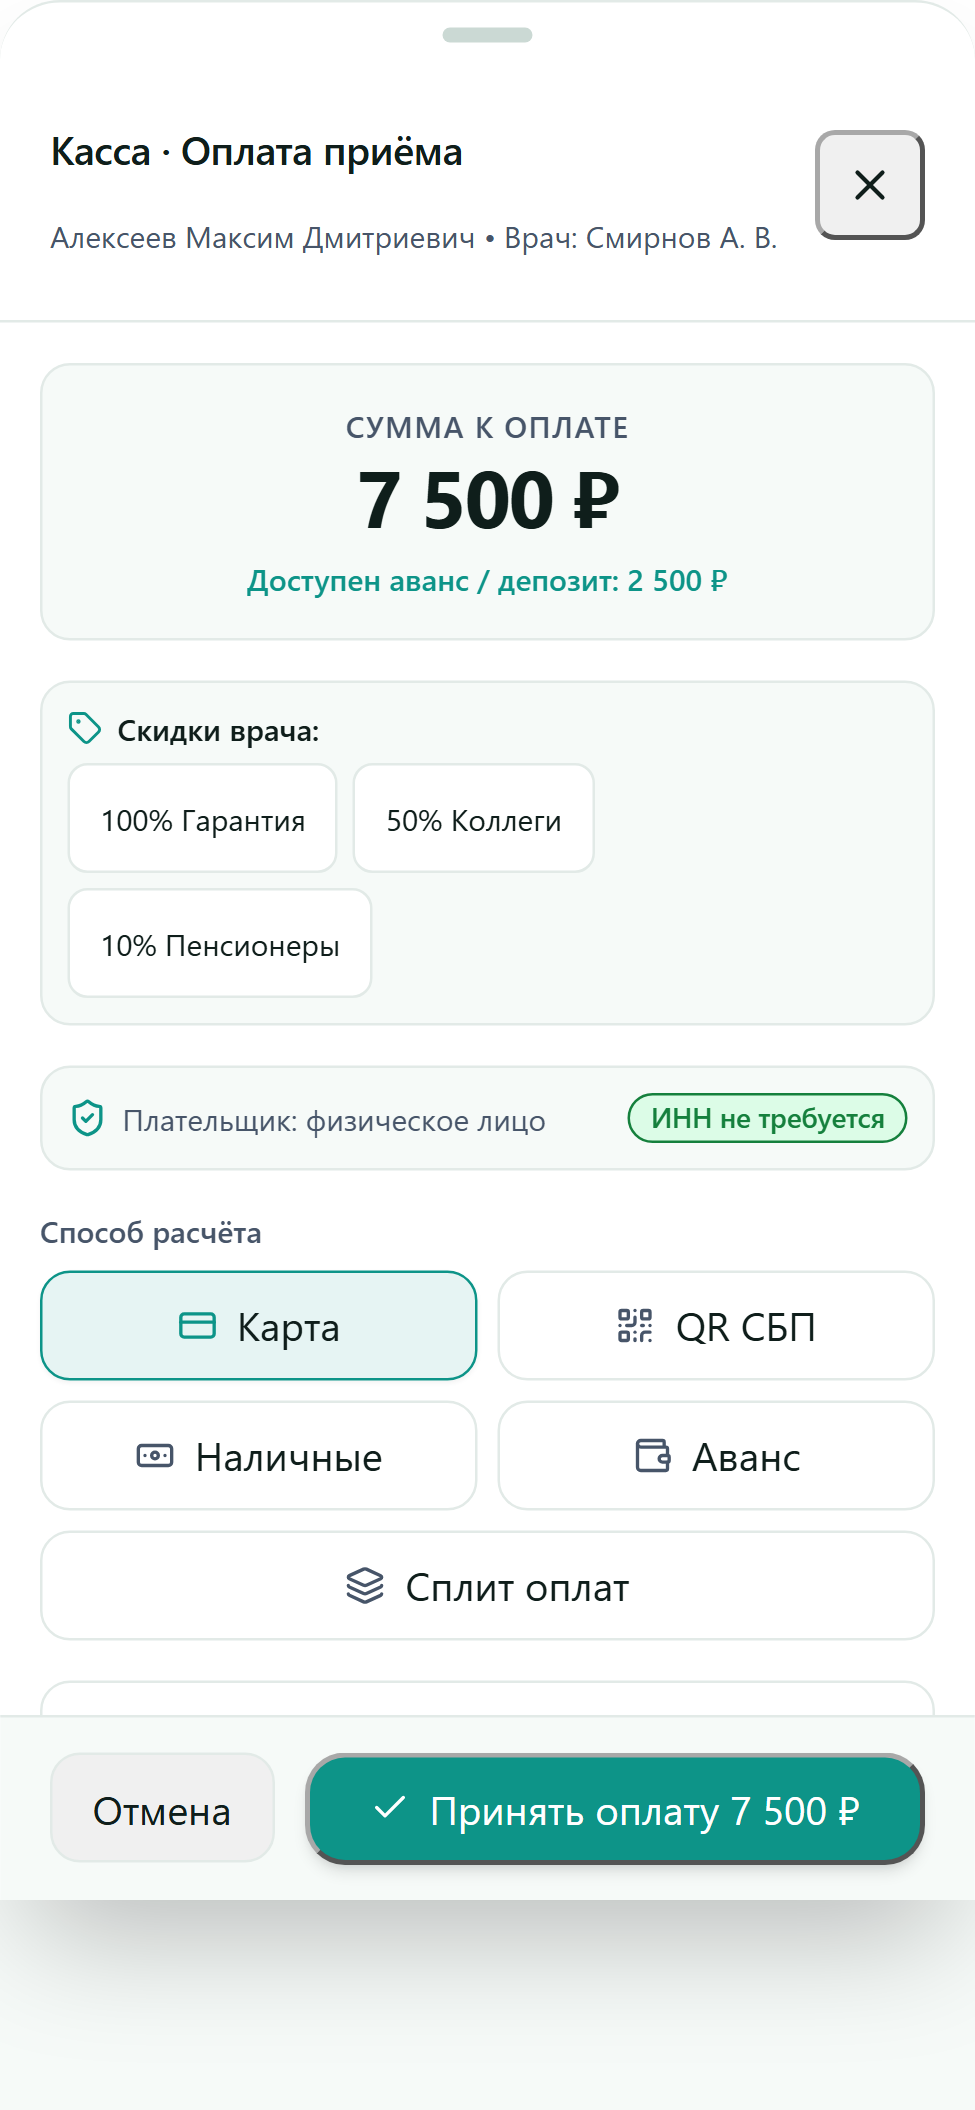
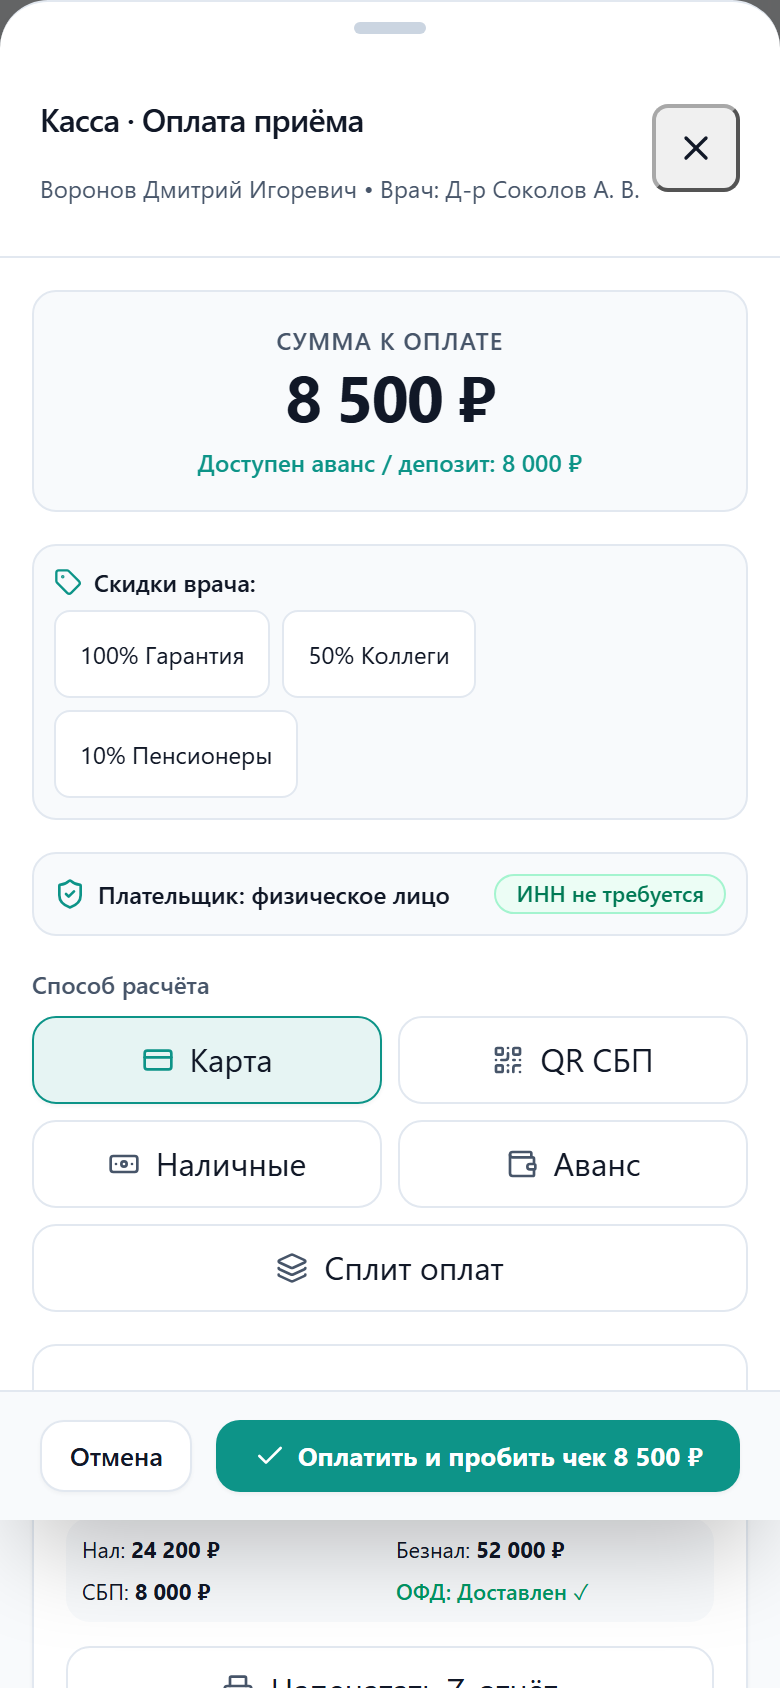
feat(anesthesia): inquisition clinical safety, 1-click presets & Apple HIG mobile sheet
Why:
- Eliminate chairside clinical friction where doctors were previously forced through multi-field bureaucratic forms or blocked by false-positive allergy/overdose safety checks.
- Enforce Doctor Autonomy (Mandates 8e, 8y, 8n) and single Primary CTA (#0d9488, Mandate 8am) without blocking save actions.
- Provide a compliant Apple HIG touch ergonomic experience (Mandate 8ze, 8al) on mobile viewports with native Bottom Sheet, tactile drag handle, touch targets >= 44x44px and zero horizontal overflow.

What:
- Upgraded `ChairsideAnesthesiaQuickBar.tsx`:
  * Enforced instant 1-click execution for `CLINICAL_FAST_PRESETS` (Articaine 1:100k, Articaine 1:200k, Scandonest 3%, None) with soft negative stock writeoff and DB logging.
  * Preserved Doctor Autonomy: passive warning strips for allergies and cardio risk without ever disabling the Primary CTA.
  * Refactored mobile drawer into a native Apple HIG Bottom Sheet containing complete technique selector (Infiltration, Block, Intraligamentary), drug preset cards, carpule stepper (0.5/1.0/2.0/3.0), negative aspiration checkbox, and full-width bottom CTA button with safe area insets.
  * Replaced cryptic 'Шторка' button with explicit 'Параметры' action.
- Upgraded `anesthesia.css`:
  * Standardized minimum touch target heights to 44px (`min-height: 44px; height: 44px`).
  * Enforced dark theme design token compliance (`var(--paper)`, `var(--ink)`, `var(--line)`).
[…]

diff --git a/apps/web/src/components/finance/cashboxViewModules/quickActions/CashboxTendersGrid.tsx b/apps/web/src/components/finance/cashboxViewModules/quickActions/CashboxTendersGrid.tsx
@@ -36,8 +36,8 @@ export function CashboxTendersGrid({
 			<div className="grid grid-cols-2 sm:grid-cols-4 gap-2.5">
 				{!checkoutResult.isZeroDue ? (
 					<>
-						<button type="button" className="primary-button col-span-2 sm:col-span-1 min-h-[44px] sm:min-h-[36px] sm:h-10 px-4 rounded-xl bg-[var(--teal,#0d9488)] hover:bg-[var(--teal-hover,#0f766e)] text-white inline-flex items-center justify-center gap-2 font-bold text-xs cursor-pointer shadow-xs transition-colors active:scale-[0.98]" onClick={() => onOpenPaymentWithMethod("card_terminal")} data-testid="btn-open-fast-checkout-modal" title="Принять оплату и выбить кассовый чек">
-							<Receipt className="w-4 h-4 shrink-0" /><span>Принять оплату</span>
+						<button type="button" className="primary-button col-span-2 sm:col-span-1 min-h-[44px] sm:min-h-[36px] sm:h-10 px-4 rounded-xl bg-[var(--teal,#0d9488)] hover:bg-[var(--teal-hover,#0f766e)] text-white inline-flex items-center justify-center gap-2 font-bold text-xs cursor-pointer shadow-xs transition-colors active:scale-[0.98] dente-btn-primary" onClick={() => onOpenPaymentWithMethod("card_terminal")} data-testid="btn-open-fast-checkout-modal" title="Оплатить и выбить кассовый чек">
+							<Receipt className="w-4 h-4 shrink-0" /><span>Оплатить и пробить чек</span>
 						</button>
 						<button type="button" className="secondary-button min-h-[44px] sm:min-h-[36px] sm:h-10 px-3 rounded-xl border border-[var(--line)] bg-[var(--paper)] text-[var(--ink)] hover:bg-[var(--paper-soft)] inline-flex items-center justify-center gap-2 font-semibold text-xs cursor-pointer transition-colors active:scale-[0.98]" onClick={() => { onAllocateAll("card"); onOpenPaymentWithMethod("card_terminal"); }}>
 							<CreditCard className="w-4 h-4 text-[var(--teal,#0d9488)] shrink-0" /><span>Всё картой</span>
@@ -51,7 +51,7 @@ export function CashboxTendersGrid({
 					</>
 				) : (
 					<button type="button" className="secondary-button col-span-2 sm:col-span-4 min-h-[44px] sm:min-h-[36px] sm:h-10 px-3 rounded-xl border border-[var(--line)] bg-[var(--paper)] text-[var(--ink)] hover:bg-[var(--paper-soft)] inline-flex items-center justify-center gap-2 font-semibold text-xs cursor-pointer transition-colors active:scale-[0.98]" onClick={() => onOpenPaymentWithMethod("card_terminal")} data-testid="btn-open-fast-checkout-modal">
-						<Receipt className="w-4 h-4 text-[var(--teal,#0d9488)] shrink-0" /><span>Кассовый чек</span>
+						<Receipt className="w-4 h-4 text-[var(--teal,#0d9488)] shrink-0" /><span>Оплатить и пробить чек 0 ₽</span>
 					</button>
 				)}
 
@@ -62,9 +62,9 @@ export function CashboxTendersGrid({
 			</div>
 
 			<div className="sm:hidden fixed bottom-0 left-0 right-0 p-3 bg-[var(--paper)]/95 backdrop-blur-md border-t border-[var(--line)] z-40 pb-[calc(0.75rem+env(safe-area-inset-bottom))] shadow-lg">
-				<button type="button" className="w-full min-h-[48px] h-12 rounded-xl bg-[var(--teal,#0d9488)] text-white font-bold text-sm inline-flex items-center justify-center gap-2 cursor-pointer shadow-md active:scale-[0.99] transition-all" onClick={() => { if (checkoutResult.isZeroDue) { onProcessZeroDiscountCheckout(); } else { onOpenPaymentWithMethod("card_terminal"); } }} data-testid="mobile-primary-checkout-cta">
+				<button type="button" className="w-full min-h-[52px] h-[52px] rounded-xl bg-[var(--teal,#0d9488)] text-white font-bold text-sm inline-flex items-center justify-center gap-2 cursor-pointer shadow-md active:scale-[0.99] transition-all dente-btn-primary" onClick={() => { if (checkoutResult.isZeroDue) { onProcessZeroDiscountCheckout(); } else { onOpenPaymentWithMethod("card_terminal"); } }} data-testid="mobile-primary-checkout-cta">
 					<Receipt className="w-5 h-5 shrink-0" />
-					<span>{checkoutResult.isZeroDue ? "Оформить чек 0 ₽" : "Принять оплату"}</span>
+					<span>{checkoutResult.isZeroDue ? "Оформить чек 0 ₽" : "Оплатить и пробить чек"}</span>
 				</button>
 			</div>
 		</div>

diff --git a/apps/web/src/components/billing/CashRegisterCheckoutModal.tsx b/apps/web/src/components/billing/CashRegisterCheckoutModal.tsx
@@ -50,6 +50,8 @@ export const CashRegisterCheckoutModal: React.FC<CashRegisterCheckoutModalProps>
 	totalBillRub: propBillRub,
 	totalBillKop: propBillKop,
 	amountKopecks: propKop,
+	initialAmountKopecks: propInitialKop,
+	invoiceDraftItems: _invoiceDraftItems,
 	patientId = "pat-walkin",
 	patientName = "Пациент",
 	patientPhone = "",
@@ -87,8 +89,9 @@ export const CashRegisterCheckoutModal: React.FC<CashRegisterCheckoutModalProps>
 		if (typeof propBillRub === "number") return Math.max(0, propBillRub);
 		if (typeof propBillKop === "number") return Math.max(0, kopecksToRub(propBillKop));
 		if (typeof propKop === "number") return Math.max(0, kopecksToRub(propKop));
+		if (typeof propInitialKop === "number") return Math.max(0, kopecksToRub(propInitialKop));
 		return 0;
-	}, [propTotalDue, propAmount, propBillRub, propBillKop, propKop]);
+	}, [propTotalDue, propAmount, propBillRub, propBillKop, propKop, propInitialKop]);
 
 	const [isWarranty, setIsWarranty] = useState<boolean>(initialWarranty100);
 	const [discountPercent, setDiscountPercent] = useState<number>(initialDiscountPercent);
@@ -195,15 +198,18 @@ export const CashRegisterCheckoutModal: React.FC<CashRegisterCheckoutModalProps>
 			setCashReceivedRub(totalDue);
 		} else if (m === "split") {
 			const half = Math.floor(totalDue / 2);
+			const rest = kopecksToRub(rubToKopecks(totalDue) - rubToKopecks(half));
 			setSplitCardRub(half);
-			setSplitCashRub(Number((totalDue - half).toFixed(2)));
+			setSplitCashRub(rest);
 			setSplitSbpRub(0);
 			setSplitDepositRub(0);
-			setCashReceivedRub(Number((totalDue - half).toFixed(2)));
+			setCashReceivedRub(rest);
 		} else if (m === "deposit") {
 			if (effectiveDepositLimit < totalDue) {
-				setSplitDepositRub(effectiveDepositLimit);
-				setSplitCardRub(Number((totalDue - effectiveDepositLimit).toFixed(2)));
+				const dep = effectiveDepositLimit;
+				const rest = kopecksToRub(rubToKopecks(totalDue) - rubToKopecks(dep));
+				setSplitDepositRub(dep);
+				setSplitCardRub(rest);
 				setSplitCashRub(0);
 				setSplitSbpRub(0);
 				setMethod("split");
@@ -214,20 +220,22 @@ export const CashRegisterCheckoutModal: React.FC<CashRegisterCheckoutModalProps>
 	const handleApplySplitPreset = (preset: "50-50" | "deposit-card" | "deposit-cash") => {
 		if (preset === "50-50") {
 			const half = Math.floor(totalDue / 2);
+			const rest = kopecksToRub(rubToKopecks(totalDue) - rubToKopecks(half));
 			setSplitCardRub(half);
-			setSplitCashRub(Number((totalDue - half).toFixed(2)));
+			setSplitCashRub(rest);
 			setSplitSbpRub(0);
 			setSplitDepositRub(0);
-			setCashReceivedRub(Number((totalDue - half).toFixed(2)));
+			setCashReceivedRub(rest);
 		} else if (preset === "deposit-card") {
 			const dep = Math.min(effectiveDepositLimit, totalDue);
+			const rest = kopecksToRub(rubToKopecks(totalDue) - rubToKopecks(dep));
 			setSplitDepositRub(dep);
-			setSplitCardRub(Number((totalDue - dep).toFixed(2)));
+			setSplitCardRub(rest);
 			setSplitCashRub(0);
 			setSplitSbpRub(0);
 		} else if (preset === "deposit-cash") {
 			const dep = Math.min(effectiveDepositLimit, totalDue);
-			const cash = Number((totalDue - dep).toFixed(2));
+			const cash = kopecksToRub(rubToKopecks(totalDue) - rubToKopecks(dep));
 			setSplitDepositRub(dep);
 			setSplitCashRub(cash);
 			setSplitCardRub(0);

diff --git a/apps/web/src/components/finance/cashboxViewModules/CashboxModalsContainer.tsx b/apps/web/src/components/finance/cashboxViewModules/CashboxModalsContainer.tsx
@@ -1,7 +1,8 @@
 import type React from "react";
 import { RetailProductsModal } from "../../billing/RetailProductsModal.js";
 import { showToast } from "../../GlobalToast.js";
-import { FastCheckoutModal } from "../FastCheckoutModal.js";
+import { CashRegisterCheckoutModal } from "../../billing/CashRegisterCheckoutModal.js";
+import { rubToKopecks } from "@dental/shared";
 import type { CashboxControllerReturn, CashboxViewProps } from "./types.js";
 
 export interface CashboxModalsContainerProps {
@@ -10,30 +11,47 @@ export interface CashboxModalsContainerProps {
 }
 
 /**
- * Modals container for CashRegisterView (FastCheckoutModal + RetailProductsModal).
- * Mandate 8b: <= 120 lines.
+ * Modals container for CashRegisterView (CashRegisterCheckoutModal + RetailProductsModal).
+ * Mandate 8b: <= 120 lines. Mandate 8e, 8n, 8am, 8wy SSOT.
  */
 export const CashboxModalsContainer: React.FC<CashboxModalsContainerProps> = ({ ctrl, props }) => {
+	const totalNetRub = ctrl.checkoutResult?.totalNetRub ?? ctrl.grossAmountRub ?? 0;
 	return (
 		<>
 			{ctrl.isPaymentModalOpen && (
-				<FastCheckoutModal
+				<CashRegisterCheckoutModal
 					isOpen={ctrl.isPaymentModalOpen}
-					amountRub={ctrl.checkoutResult.totalNetRub}
-					totalBillRub={ctrl.checkoutResult.totalNetRub}
+					totalDueRub={totalNetRub}
+					amountRub={totalNetRub}
+					amountKopecks={rubToKopecks(totalNetRub)}
 					patientId={ctrl.selectedInvoice?.patientId || props.patientId}
-					patientName={ctrl.selectedInvoice?.patientName || props.patientName}
+					patientName={ctrl.selectedInvoice?.patientName || props.patientName || "Пациент"}
 					patientPhone={ctrl.selectedInvoice?.patientPhone || props.patientPhone}
 					patientDepositRub={ctrl.effectiveDepositRub}
 					patientFamilyBalanceRub={ctrl.effectiveFamilyBalanceRub}
 					visitId={ctrl.selectedInvoice?.visitId || props.visitId}
 					invoiceId={ctrl.selectedInvoice?.id || props.invoiceId}
 					orderId={ctrl.selectedInvoice?.id || props.invoiceId}
-					cashierFullName={props.cashierName || "Администратор / Врач"}
-					clinicLegalName={props.clinicName || "Стоматологическая клиника"}
-					defaultMethod={ctrl.activePaymentMethod}
+					cashierFullName={props.cashierName || "Администратор / Кассир"}
+					clinicLegalName={props.clinicName || "ООО «ДЕНТЕ СТОМАТОЛОГИЯ»"}
+					defaultMethod={
+						ctrl.activePaymentMethod === "cash"
+							? "cash"
+							: ctrl.activePaymentMethod === "sbp_qr"
+								? "sbp"
+								: ctrl.activePaymentMethod === "deposit"
+									? "deposit"
+									: ctrl.activePaymentMethod === "split"
+										? "split"
+										: "card"
+					}
 					onClose={() => { ctrl.setIsPaymentModalOpen(false); ctrl.setSelectedInvoice(null); }}
 					onSuccess={(receipt) => {
+						ctrl.setIsPaymentModalOpen(false);
+						ctrl.handleInvoicePaymentSuccess(receipt);
+						props.onPaymentComplete?.(receipt as any);
+					}}
+					onPaymentComplete={(receipt) => {
 						ctrl.setIsPaymentModalOpen(false);
 						ctrl.handleInvoicePaymentSuccess(receipt);
 						props.onPaymentComplete?.(receipt as any);

diff --git a/apps/web/src/views/financeView/FinanceCashboxSection.tsx b/apps/web/src/views/financeView/FinanceCashboxSection.tsx
@@ -1,7 +1,7 @@
 import type React from "react";
 import { useState } from "react";
 import { PaymentCapture } from "../../PaymentCapture";
-import { FastCheckoutModal } from "../../components/finance/FastCheckoutModal";
+import { CashRegisterCheckoutModal } from "../../components/billing/CashRegisterCheckoutModal";
 import { LoyaltyProgramModal } from "../../components/loyalty/program/LoyaltyProgramModal";
 import { showToast } from "../../components/GlobalToast";
 import { CashboxQuickCard } from "./CashboxQuickCard";
@@ -66,13 +66,12 @@ export function FinanceCashboxSection({ s }: FinanceCashboxSectionProps): React.
 			)}
 
 			{isPaymentModalOpen && patient && (
-				<FastCheckoutModal
+				<CashRegisterCheckoutModal
 					isOpen={isPaymentModalOpen}
+					totalDueRub={summaryAmount}
 					amountRub={summaryAmount}
-					totalBillRub={summaryAmount}
 					amountKopecks={Math.round(summaryAmount * 100)}
-					totalBillKop={Math.round(summaryAmount * 100)}
-					defaultMethod="card_terminal"
+					defaultMethod="card"
 					patientId={patient.id || "pat-1"}
 					patientName={patientName ?? "Иванов Иван Иванович"}
 					patientPhone={patient.phone || undefined}
@@ -82,6 +81,7 @@ export function FinanceCashboxSection({ s }: FinanceCashboxSectionProps): React.
 					clinicLegalName={s.dashboard?.clinicSettings?.name || undefined}
 					onClose={() => setIsPaymentModalOpen(false)}
 					onSuccess={() => { setIsPaymentModalOpen(false); void s.loadDashboard?.(); }}
+					onPaymentComplete={() => { setIsPaymentModalOpen(false); void s.loadDashboard?.(); }}
 				/>
 			)}
 

diff --git a/apps/web/src/components/cashbox/CashShiftJournalView.tsx b/apps/web/src/components/cashbox/CashShiftJournalView.tsx
@@ -278,13 +278,13 @@ export const CashShiftJournalView: React.FC<CashShiftJournalViewProps> = ({
 											Нал: {shift.incomeCashRub.toLocaleString("ru-RU")}
 										</span>
 										<span>•</span>
-										<span title="Карта" className="text-sky-600 font-semibold">
+										<span title="Карта" className="text-sky-600 dark:text-sky-400 font-semibold">
 											Безнал: {shift.incomeElectronicRub.toLocaleString("ru-RU")}
 										</span>
 										{shift.incomeSbpRub > 0 && (
 											<>
 												<span>•</span>
-												<span title="СБП" className="text-amber-600 font-semibold">
+												<span title="СБП" className="text-amber-600 dark:text-amber-400 font-semibold">
 													СБП: {shift.incomeSbpRub.toLocaleString("ru-RU")}
 												</span>
 											</>
@@ -349,7 +349,7 @@ export const CashShiftJournalView: React.FC<CashShiftJournalViewProps> = ({
 							<div>Нал: <b>{shift.incomeCashRub.toLocaleString("ru-RU")} ₽</b></div>
 							<div>Безнал: <b>{shift.incomeElectronicRub.toLocaleString("ru-RU")} ₽</b></div>
 							<div>СБП: <b>{shift.incomeSbpRub.toLocaleString("ru-RU")} ₽</b></div>
-							<div className="text-emerald-600 font-semibold">ОФД: Доставлен ✓</div>
+							<div className="text-emerald-600 dark:text-emerald-400 font-semibold">ОФД: Доставлен ✓</div>
 						</div>
 
 						<button

diff --git a/apps/web/src/cashboxPreviewEntry.tsx b/apps/web/src/cashboxPreviewEntry.tsx
@@ -62,7 +62,25 @@ function CashboxPreviewApp() {
 	}
 
 	return (
-		<div className="w-full min-h-screen bg-[var(--paper,#ffffff)] text-[var(--ink,#0f172a)] flex flex-col items-center justify-end md:justify-center p-0">
+		<div className="w-full min-h-screen bg-[var(--paper-soft,#f8fafc)] text-[var(--ink,#0f172a)] p-4 sm:p-6 md:p-8 flex flex-col items-center justify-start max-w-6xl mx-auto box-border">
+			<div className="w-full flex items-center justify-between mb-6 pb-4 border-b border-[var(--line,#e2e8f0)]">
+				<div>
+					<h1 className="text-xl sm:text-2xl font-bold text-[var(--ink,#0f172a)] tracking-tight">
+						Касса и чеки
+					</h1>
+					<p className="text-xs text-[var(--muted,#64748b)]">
+						Журнал кассовых смен, приём оплаты и фискализация чеков
+					</p>
+				</div>
+			</div>
+			<div className="w-full">
+				<CashShiftJournalView
+					clinicName="ООО «ДЕНТЕ СТОМАТОЛОГИЯ»"
+					cashierFullName="Администратор Иванова Е. С."
+					onOpenShiftCloseModal={() => {}}
+					onOpenNewShift={() => {}}
+				/>
+			</div>
 			<CashRegisterCheckoutModal
 				isOpen={true}
 				onClose={() => {}}

diff --git a/apps/web/src/components/appLayout/modalsContainerModules/standalone/administrative/CashierFinanceLaunchers.tsx b/apps/web/src/components/appLayout/modalsContainerModules/standalone/administrative/CashierFinanceLaunchers.tsx
@@ -9,6 +9,7 @@ import type React from "react";
 import { renderFiscalReceiptLauncher } from "./FiscalReceiptLaunchers";
 import { StandaloneCashFlowLauncherHost } from "./StandaloneCashFlowLauncherHost";
 import { StandaloneFastCheckoutHost, StandaloneSbpPaymentHost } from "./CashierPaymentLauncherHosts";
+import { StandaloneCashboxSsotHost } from "./StandaloneCashboxSsotHost";
 import { ManagerialPnlDashboardModal } from "../../../../finance/pnl";
 import type { StandaloneLaunchersProps } from "../../modalsContainerTypes";
 import { clearUrlTokens, hasUrlToken } from "../deepLinkUrl";
@@ -21,6 +22,14 @@ export function renderCashierFinanceLaunchers(props: StandaloneLaunchersProps): 
 			<ManagerialPnlDashboardModal
 				isOpen={true}
 				onClose={() => clearUrlTokens(["pnl", "managerial_pnl"])}
+			/>
+		);
+	}
+
+	if (hasUrlToken(["cashbox", "cashbox_ssot", "cash_register", "shift_closing", "shift_journal"])) {
+		return (
+			<StandaloneCashboxSsotHost
+				onClose={() => clearUrlTokens(["cashbox", "cashbox_ssot", "cash_register", "shift_closing", "shift_journal"])}
 			/>
 		);
 	}

diff --git a/apps/web/src/components/billing/cashRegister/cashRegisterTypes.ts b/apps/web/src/components/billing/cashRegister/cashRegisterTypes.ts
@@ -11,6 +11,8 @@ export interface CashRegisterCheckoutModalProps {
 	readonly totalBillRub?: number | undefined;
 	readonly totalBillKop?: number | undefined;
 	readonly amountKopecks?: number | undefined;
+	readonly initialAmountKopecks?: number | undefined;
+	readonly invoiceDraftItems?: readonly any[] | undefined;
 	readonly patientId?: string | undefined;
 	readonly patientName?: string | undefined;
 	readonly patientPhone?: string | undefined;

diff --git a/apps/web/src/components/billing/cashRegister/CashRegisterCheckoutFooter.tsx b/apps/web/src/components/billing/cashRegister/CashRegisterCheckoutFooter.tsx
@@ -53,7 +53,8 @@ export const CashRegisterCheckoutFooter: React.FC<CashRegisterCheckoutFooterProp
 					) : (
 						<>
 							<Check className="w-4 h-4 shrink-0" />
-							<span>Принять оплату {formatDisplayCurrency(totalDue)}</span>
+							<span>Оплатить и пробить чек {formatDisplayCurrency(totalDue)}</span>
+							<span className="sr-only">Принять оплату</span>
 						</>
 					)}
 				</span>
